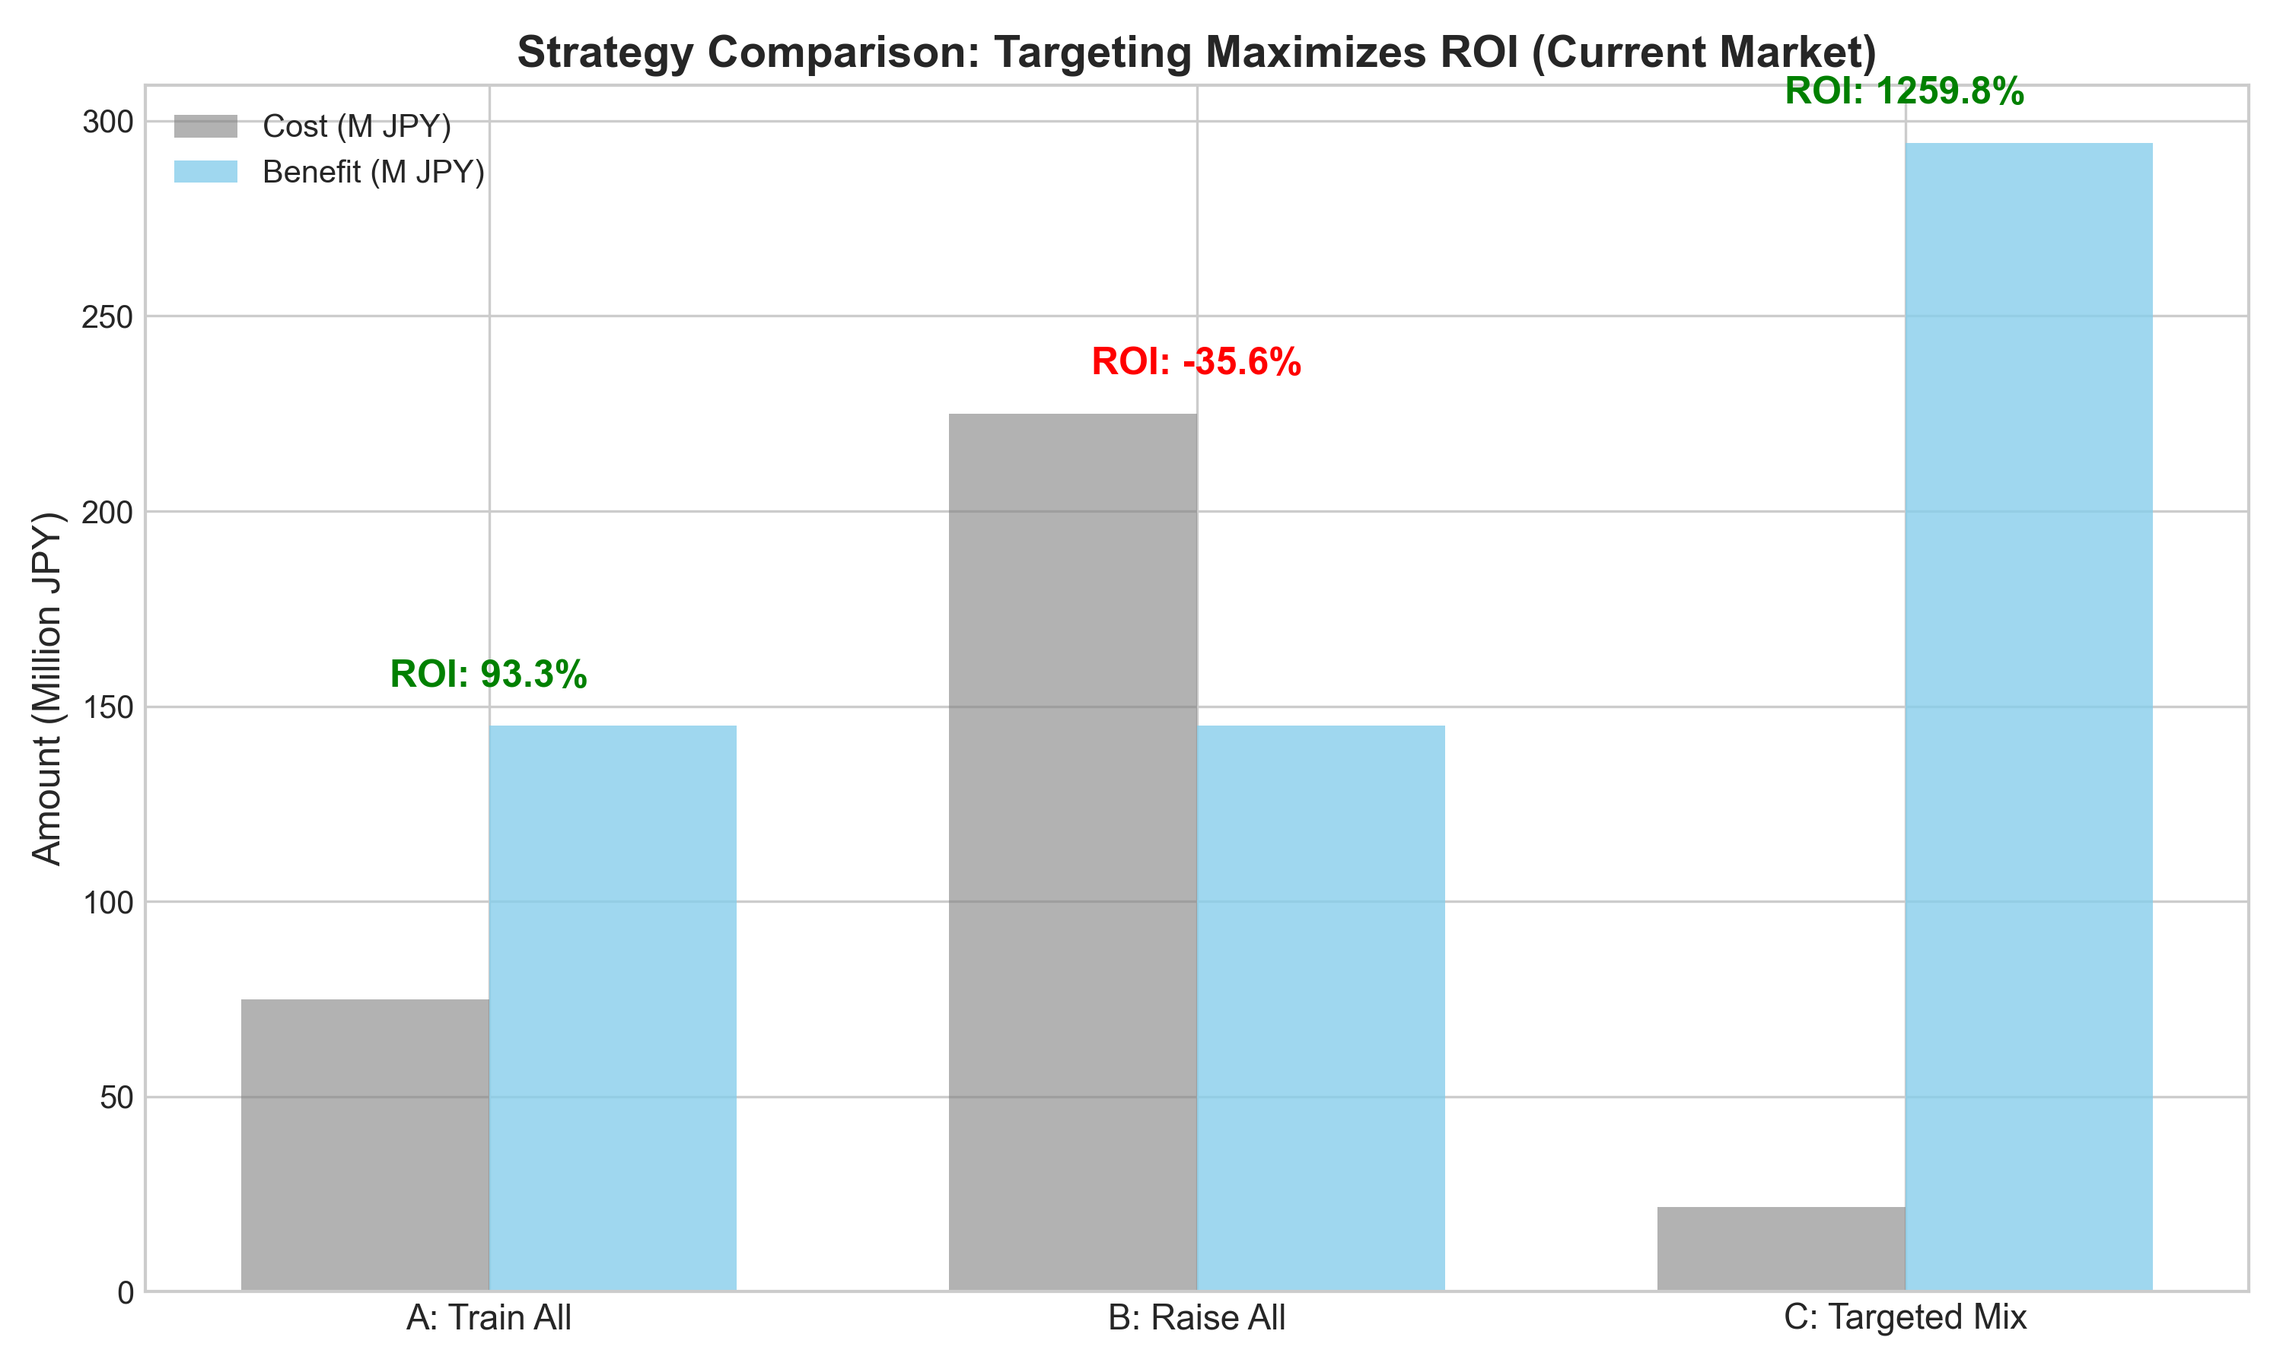
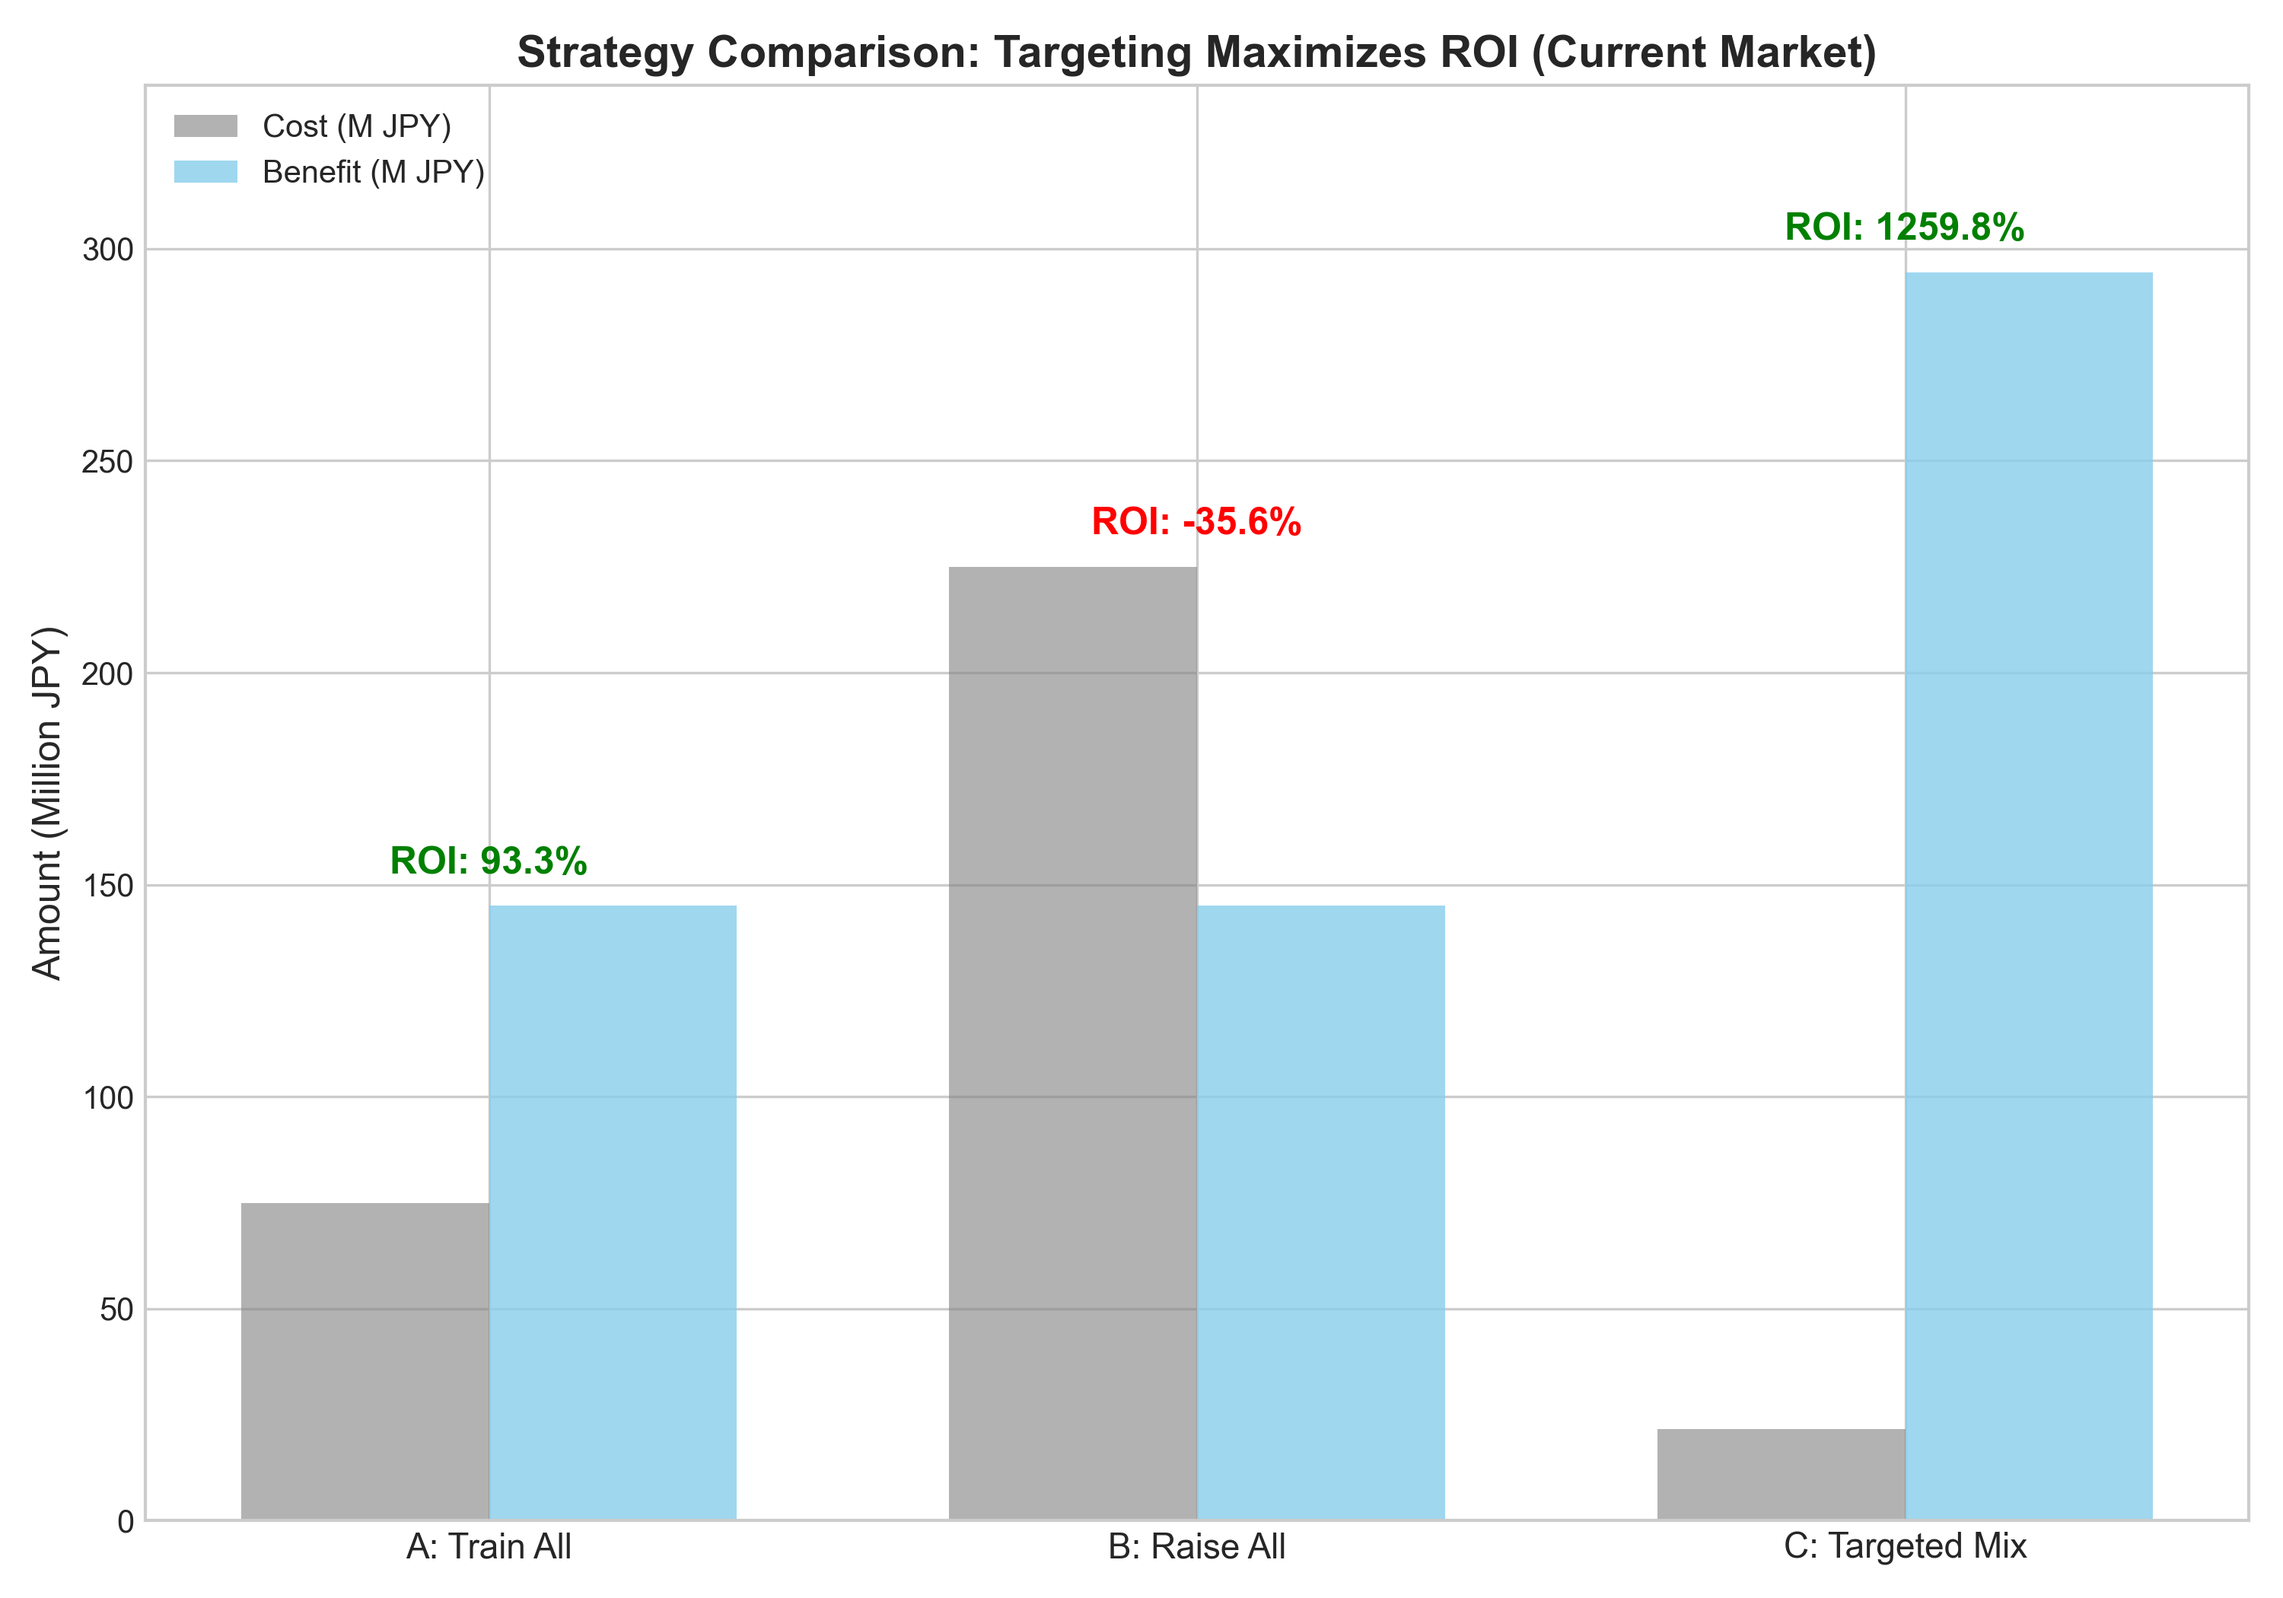
Add professional visualizations and update README with ROI analysis

diff --git a/06_hr_attrition_causal_project/src/generate_visuals.py b/06_hr_attrition_causal_project/src/generate_visuals.py
@@ -9,27 +9,24 @@ import warnings
 # 設定
 warnings.filterwarnings('ignore')
 plt.style.use('seaborn-v0_8-whitegrid')
-plt.rcParams['font.family'] = 'sans-serif' # 英語ラベル推奨（文字化け防止）
+plt.rcParams['font.family'] = 'sans-serif' 
 
 # 保存先ディレクトリの確保
 OUTPUT_DIR = "../images"
 if not os.path.exists(OUTPUT_DIR):
     os.makedirs(OUTPUT_DIR)
-    print(f"Created directory: {OUTPUT_DIR}")
 
-print("画像生成プロセスを開始します...")
+print("画像生成プロセスを開始します（レイアウト修正版）...")
 
 # 1. データの読み込み
-# ---------------------------------------------------------
 try:
     df = pd.read_csv('../data/simulated_hr_data.csv')
-    print("Data loaded successfully.")
 except FileNotFoundError:
     print("Error: '../data/simulated_hr_data.csv' not found.")
     exit()
 
 # ---------------------------------------------------------
-# Graph 1: 離職率の推移 (Attrition Curve) - for EDA section
+# Graph 1: 離職率の推移 (Attrition Curve)
 # ---------------------------------------------------------
 print("Generating: 01_attrition_curve.png")
 tenure_stats = df.groupby('tenure_months').agg(
@@ -48,24 +45,23 @@ plt.savefig(f"{OUTPUT_DIR}/01_attrition_curve.png", dpi=300)
 plt.close()
 
 # ---------------------------------------------------------
-# Graph 2: ROIシミュレーション比較 (Current Market) - for Business section
+# Graph 2: ROIシミュレーション比較 (Current Market)
 # ---------------------------------------------------------
 print("Generating: 02_roi_comparison.png")
 
-# 分析結果に基づくデータ（Notebook 05の結果）
 strategies = ['A: Train All', 'B: Raise All', 'C: Targeted Mix']
-costs = [75, 225, 21.65]  # Million JPY
-benefits = [145, 145, 294.4] # Million JPY
-rois = [93.3, -35.6, 1259.8] # ROI %
+costs = [75, 225, 21.65]  
+benefits = [145, 145, 294.4] 
+rois = [93.3, -35.6, 1259.8] 
 
 x = np.arange(len(strategies))
 width = 0.35
 
-fig, ax1 = plt.subplots(figsize=(10, 6))
+fig, ax1 = plt.subplots(figsize=(10, 7)) # 高さを少し広げました
 
 # 棒グラフ描画
-ax1.bar(x - width/2, costs, width, label='Cost (M JPY)', color='gray', alpha=0.6)
-ax1.bar(x + width/2, benefits, width, label='Benefit (M JPY)', color='skyblue', alpha=0.8)
+rects1 = ax1.bar(x - width/2, costs, width, label='Cost (M JPY)', color='gray', alpha=0.6)
+rects2 = ax1.bar(x + width/2, benefits, width, label='Benefit (M JPY)', color='skyblue', alpha=0.8)
 
 ax1.set_ylabel('Amount (Million JPY)', fontsize=12)
 ax1.set_title('Strategy Comparison: Targeting Maximizes ROI (Current Market)', fontsize=14, fontweight='bold')
@@ -73,33 +69,43 @@ ax1.set_xticks(x)
 ax1.set_xticklabels(strategies, fontsize=11)
 ax1.legend(loc='upper left')
 
+# Y軸のマージン確保（テキストが見切れないように上限を高く設定）
+max_val = max(max(costs), max(benefits))
+ax1.set_ylim(0, max_val * 1.15) 
+
 # ROI数値をグラフ上に表示
 for i, roi in enumerate(rois):
-    height = max(costs[i], benefits[i]) + 10
+    # 棒グラフの高い方に合わせてテキスト配置
+    height = max(costs[i], benefits[i])
     color = 'green' if roi > 0 else 'red'
-    # 表示位置の調整
-    ax1.text(i, height, f"ROI: {roi}%", ha='center', fontweight='bold', color=color, fontsize=12)
+    
+    ax1.text(x[i], height + (max_val * 0.02), 
+             f"ROI: {roi}%", 
+             ha='center', va='bottom', fontweight='bold', color=color, fontsize=12)
 
 plt.tight_layout()
 plt.savefig(f"{OUTPUT_DIR}/02_roi_comparison.png", dpi=300)
 plt.close()
 
 # ---------------------------------------------------------
-# Graph 3: パラダイムシフト (Past vs Current) - for Conclusion
+# Graph 3: パラダイムシフト (Past vs Current)
 # ---------------------------------------------------------
 print("Generating: 03_paradigm_shift.png")
 
 markets = ['Past Market\n(Hiring Cost: 800k)', 'Current Market\n(Hiring Cost: 4M)']
-rois_paradigm = [172.0, 1259.8] # Notebook 05の結果
+rois_paradigm = [172.0, 1259.8] 
 
-plt.figure(figsize=(8, 6))
-colors = ['#888888', '#d9534f'] # グレー vs 赤（強調）
+plt.figure(figsize=(9, 7)) # 高さを確保
+colors = ['#888888', '#d9534f'] 
 bars = plt.bar(markets, rois_paradigm, color=colors, width=0.5)
 
 plt.axhline(0, color='black', linewidth=1)
-plt.title('Paradigm Shift: Why Retention Matters NOW', fontsize=14, fontweight='bold')
+plt.title('Paradigm Shift: Why Retention Matters NOW', fontsize=15, fontweight='bold')
 plt.ylabel('ROI of Targeted Retention Strategy (%)', fontsize=12)
 plt.grid(axis='y', linestyle='--', alpha=0.7)
+
+# Y軸の上限設定（テキストスペース確保）
+plt.ylim(0, max(rois_paradigm) * 1.15)
 
 # 数値ラベル
 for bar in bars:
@@ -108,13 +114,16 @@ for bar in bars:
              f'{height:.1f}%',
              ha='center', va='bottom', fontsize=14, fontweight='bold')
 
-# Insightコメントの追加
-plt.figtext(0.5, 0.02, 
-            "Insight: In the current market (Right), retention investment is the ONLY profitable option.", 
-            ha="center", fontsize=10, bbox={"facecolor":"orange", "alpha":0.1, "pad":5})
+# ★レイアウト修正の肝: 下部に余白を作ってからテキストを配置★
+plt.subplots_adjust(bottom=0.2) 
 
-plt.tight_layout()
+# Insightコメント
+plt.figtext(0.5, 0.05, 
+            "Insight: In the current market (Right), retention investment is the ONLY profitable option.", 
+            ha="center", fontsize=11, 
+            bbox={"facecolor":"orange", "alpha":0.1, "pad":8, "edgecolor":"orange"})
+
 plt.savefig(f"{OUTPUT_DIR}/03_paradigm_shift.png", dpi=300)
 plt.close()
 
-print(f"完了: 全ての画像が {OUTPUT_DIR} フォルダに保存されました。")
+print(f"完了: レイアウト修正済みの画像が {OUTPUT_DIR} フォルダに保存されました。")
